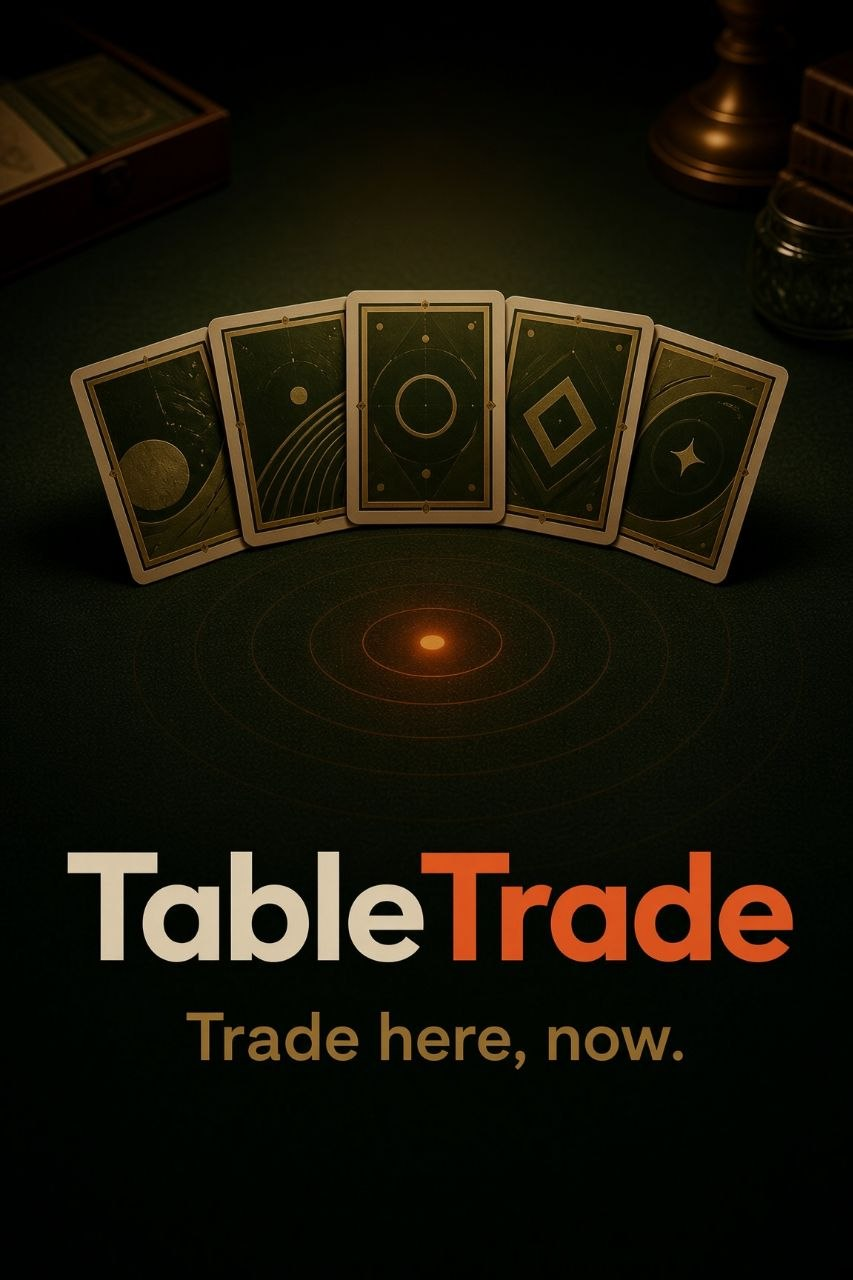
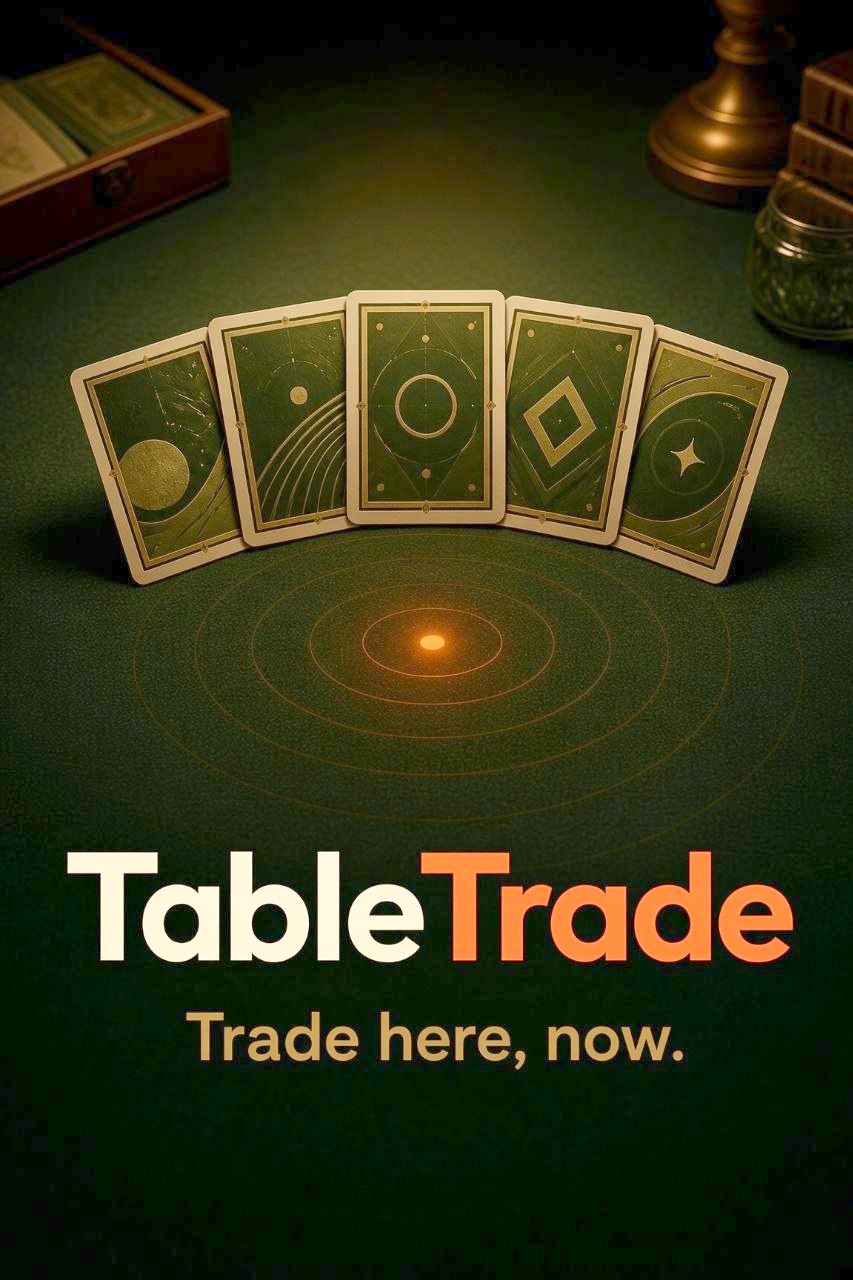
Brighten the TableTrade poster so it matches the page type.
The original file was crushed dark; this lifts the felt, cards, and title.

diff --git a/apps/tabletrade/index.html b/apps/tabletrade/index.html
@@ -86,7 +86,7 @@
 
         <figure class="share-hero">
           <img
-            src="../../media/tabletrade-hero.jpg"
+            src="../../media/tabletrade-hero.jpg?v=2"
             width="853"
             height="1280"
             alt="Card backs on a felt table, ping rings around a glowing center. TableTrade — Trade here, now."
